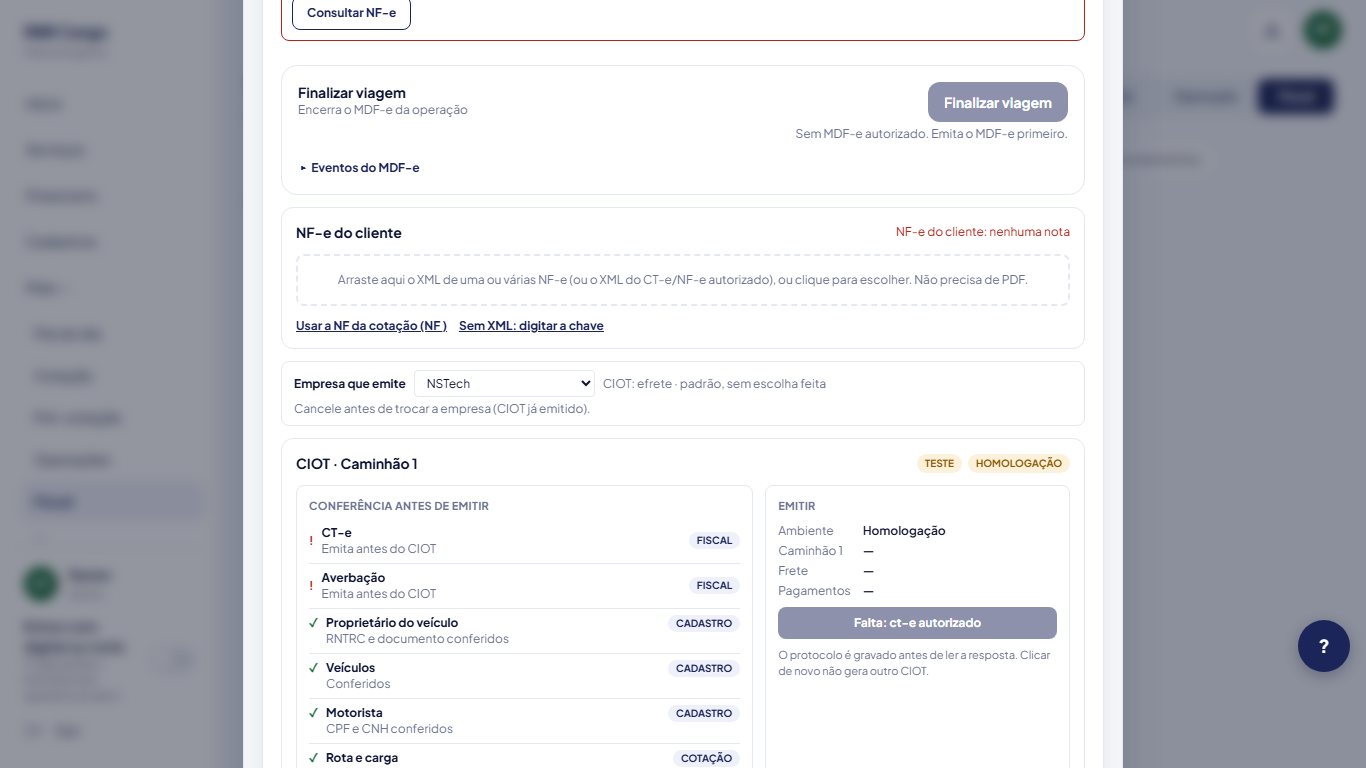
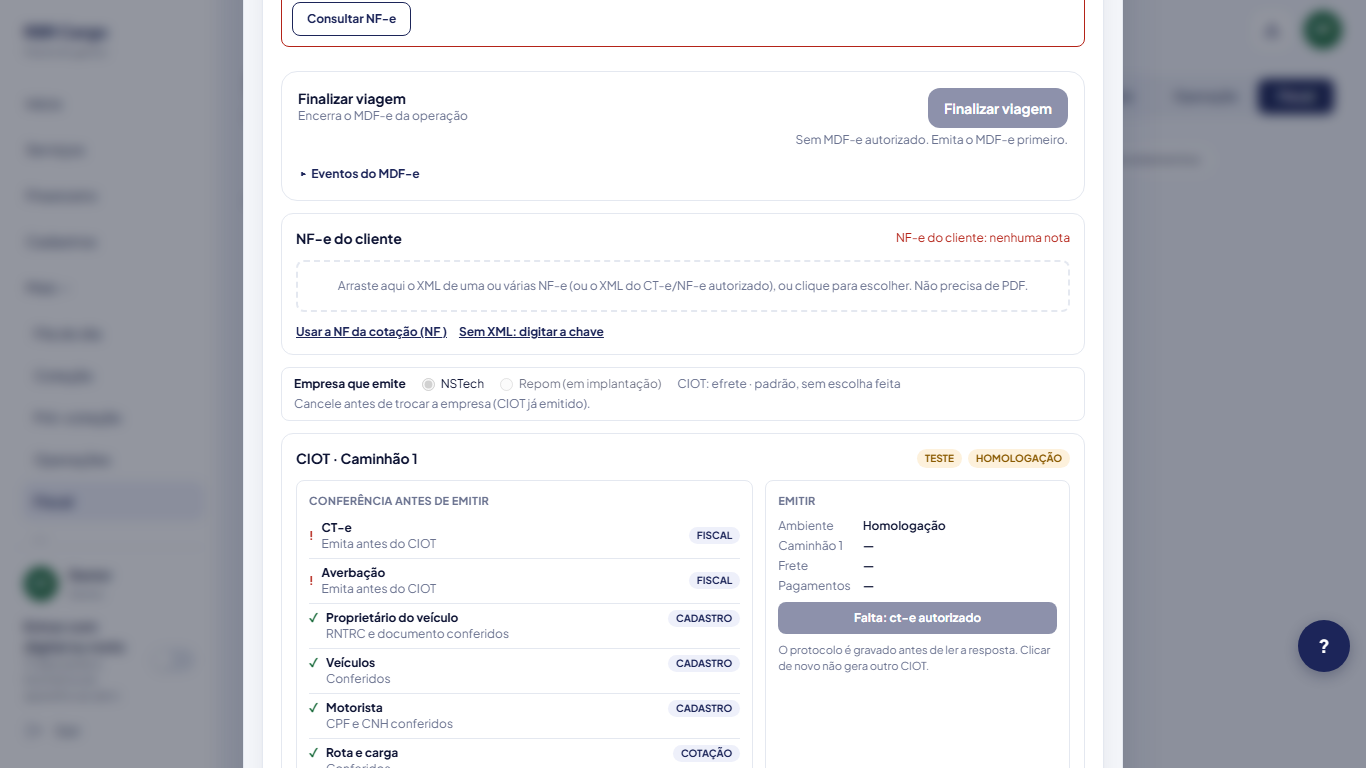
feat(fiscal): seletor de fornecedor reencaixado nas abas, opcoes sempre visiveis (repom em implantacao) e leitura do catalogo tambem para o Fiscal
- slot do seletor no cartao da direita das abas Vale-pedagio e CIOT (nulo na demo e com a flag desligada: tela identica a Fase 1)
- seletor passa a ser grupo de opcoes (radio): nstech marcado e repom desabilitada 'em implantacao' aparecem sem abrir lista
- SQL (nao aplicado): policy de leitura de fornecedores_fiscais para gestor_rbr e fiscal; escrita segue so service_role; rollback inalterado
- prints novos com a flag ligada, dados de exemplo, fora de producao

diff --git a/gestor/src/components/operacao/SeletorFornecedor.tsx b/gestor/src/components/operacao/SeletorFornecedor.tsx
@@ -61,22 +61,25 @@ export default function SeletorFornecedor({ operacaoId, tipo, demo = false, onMu
   const idAtual = escolhido ?? catalogo.find((f) => (tipo === 'ciot' ? f.padrao_ciot : f.padrao_vpo))?.id ?? 'nstech'
   return (
     <div className="rounded-lg border px-3 py-2 text-xs flex flex-col gap-1" style={{ borderColor: 'var(--rbr-border, #e5e7eb)' }}>
-      <div className="flex flex-wrap items-center gap-2">
-        <label htmlFor={`forn-${tipo}`} className="font-bold text-[color:var(--rbr-navy-dark)]">Empresa que emite</label>
-        <select
-          id={`forn-${tipo}`}
-          value={valor}
-          disabled={!podeTrocar || !!travado || salvando}
-          onChange={(e) => void trocar(e.target.value)}
-          className="rounded border px-2 py-1 text-xs bg-white"
-          style={{ borderColor: 'var(--rbr-border, #e5e7eb)' }}
-        >
-          {opcoes.map((o) => (
-            <option key={o.id} value={o.id} disabled={o.desabilitada}>{o.rotulo}</option>
-          ))}
-        </select>
+      {/* Opções sempre à vista (radio): a empresa marcada e as que ainda estão "em implantação" (desabilitadas) aparecem sem abrir lista. */}
+      <fieldset className="flex flex-wrap items-center gap-x-4 gap-y-1 border-0 p-0 m-0 min-w-0" id={`forn-${tipo}`}>
+        <legend className="sr-only">Empresa que emite</legend>
+        <span className="font-bold text-[color:var(--rbr-navy-dark)]" aria-hidden>Empresa que emite</span>
+        {opcoes.map((o) => (
+          <label key={o.id} className={`inline-flex items-center gap-1.5 ${o.desabilitada ? 'opacity-60' : ''}`}>
+            <input
+              type="radio"
+              name={`forn-${tipo}`}
+              value={o.id}
+              checked={valor === o.id}
+              disabled={o.desabilitada || !podeTrocar || !!travado || salvando}
+              onChange={() => void trocar(o.id)}
+            />
+            {o.rotulo}
+          </label>
+        ))}
         <span className="text-[color:var(--rbr-muted)]">{rotuloEtapa(tipo, idAtual, catalogo.find((f) => f.id === idAtual)?.nome)}{escolhido ? '' : ' · padrão, sem escolha feita'}</span>
-      </div>
+      </fieldset>
       {travado && <div className="text-[color:var(--rbr-muted)]">{travado}</div>}
       {!travado && !podeTrocar && <div className="text-[color:var(--rbr-muted)]">Só o Fiscal ou o gestor trocam a empresa.</div>}
       {linha?.fornecedor_escolhido_em && escolhido && <div className="text-[color:var(--rbr-muted)]">Escolhida em {new Date(linha.fornecedor_escolhido_em).toLocaleString('pt-BR')}.</div>}

diff --git a/gestor/src/components/operacao/DemoFiscal.tsx b/gestor/src/components/operacao/DemoFiscal.tsx
@@ -6,6 +6,7 @@ import type { RequisicaoVpo } from '../../lib/vpoPassos'
 import { formatMoney } from '@rbr/shared/format'
 import CartaoVpo from './CartaoVpo'
 import CiotEfrete from './CiotEfrete'
+import SeletorFornecedor from './SeletorFornecedor'
 import { FaixaFixa } from './CartaoCiot'
 
 // Aba Fiscal no MODO DE DEMONSTRAÇÃO (reunião com a NSTech): só a esteira completa, o vale-pedágio e o CIOT, cada um
@@ -310,7 +311,7 @@ export default function DemoFiscal({ operacaoId, docs, resumo, onMudou }: PropsD
         {aba === 'vpo' ? (
           <>
             <Cabecalho titulo="1. Vale-pedágio (NSPEDAGIO)" fluxo="ao NSPEDAGIO" />
-            {estado && <CartaoVpo operacaoId={operacaoId} ehTeste demo onMudou={aoMudar} onSimulacao={setSimulacao} inicial={{ ...inicialVale, ...(formVale ?? {}) }} onDados={setFormVale} tabela={tabelaVpo} />}
+            {estado && <CartaoVpo operacaoId={operacaoId} ehTeste demo onMudou={aoMudar} onSimulacao={setSimulacao} inicial={{ ...inicialVale, ...(formVale ?? {}) }} onDados={setFormVale} tabela={tabelaVpo} seletor={<SeletorFornecedor operacaoId={operacaoId} tipo="vpo" demo />} />}
             {dados.vpo.idvpo && (
               <div className="text-xs rounded-lg px-3 py-2" style={{ background: 'var(--rbr-muted-bg)' }}>
                 Vale <b>{dados.vpo.idvpo}</b> gravado na operação. Depois ele vai para o CIOT e para o MDF-e.
@@ -330,7 +331,7 @@ export default function DemoFiscal({ operacaoId, docs, resumo, onMudou }: PropsD
         ) : (
           <>
             <Cabecalho titulo="2. CIOT (efrete)" fluxo="à efrete" />
-            <CiotEfrete operacaoId={operacaoId} ehTeste docs={docs} demo onMudou={aoMudar} onPrevia={setPrevia} onPedido={(p) => setPisoPedido(p?.piso_minimo ?? null)} tabela={tabelaCiot} />
+            <CiotEfrete operacaoId={operacaoId} ehTeste docs={docs} demo onMudou={aoMudar} onPrevia={setPrevia} onPedido={(p) => setPisoPedido(p?.piso_minimo ?? null)} tabela={tabelaCiot} seletor={<SeletorFornecedor operacaoId={operacaoId} tipo="ciot" demo />} />
             {estado?.ciot.ciot && estado.ciot.status !== 'cancelado' && (
               <div className="text-xs rounded-lg px-3 py-2" style={{ background: 'var(--rbr-muted-bg)' }}>
                 Voltou: CIOT <b>{estado.ciot.ciot}{estado.ciot.verificador ? `/${estado.ciot.verificador}` : ''}</b>

diff --git a/gestor/src/components/operacao/CartaoVpo.tsx b/gestor/src/components/operacao/CartaoVpo.tsx
@@ -43,13 +43,13 @@ const emDias = (n: number) => new Date(Date.now() + n * 86_400_000)
 
 // demo = modo de demonstração: dados da rota sempre à vista, placa de teste (GYI1732) já preenchida e aviso de espera de 1 a 3 minutos.
 // inicial: valores de partida do formulário na demonstração (vêm da operação); onDados devolve o que o formulário tem agora, para a tabela "Dado enviado" ler a MESMA fonte.
-export type PropsCartaoVpo = { operacaoId: string; ehTeste: boolean; placa?: string | null; onMudou?: () => void; demo?: boolean; onSimulacao?: (resumo: string | null) => void; onPlaca?: (placa: string) => void; inicial?: Partial<FormularioVale>; onDados?: (f: FormularioVale) => void; tabela?: ReactNode }
+export type PropsCartaoVpo = { operacaoId: string; ehTeste: boolean; placa?: string | null; onMudou?: () => void; demo?: boolean; onSimulacao?: (resumo: string | null) => void; onPlaca?: (placa: string) => void; inicial?: Partial<FormularioVale>; onDados?: (f: FormularioVale) => void; tabela?: ReactNode; seletor?: ReactNode }
 export default function CartaoVpo(props: PropsCartaoVpo) {
   if (!NSPEDAGIO_HABILITADO) return null
   return <CartaoVpoAtivo key={props.operacaoId} {...props} />
 }
 
-function CartaoVpoAtivo({ operacaoId, ehTeste, placa, onMudou, demo, onSimulacao, onPlaca, inicial, onDados, tabela }: PropsCartaoVpo) {
+function CartaoVpoAtivo({ operacaoId, ehTeste, placa, onMudou, demo, onSimulacao, onPlaca, inicial, onDados, tabela, seletor }: PropsCartaoVpo) {
   const [reqs, setReqs] = useState<RequisicaoVpo[] | null>(null)
   const [ocupado, setOcupado] = useState<string | null>(null)
   const [erro, setErro] = useState<string | null>(null)
@@ -414,6 +414,7 @@ function CartaoVpoAtivo({ operacaoId, ehTeste, placa, onMudou, demo, onSimulacao
           </section>
 
           <section className="rounded-xl border p-3.5 flex flex-col gap-3 bg-white min-w-0" style={linha}>
+            {seletor}
             <div className="flex items-center justify-between gap-2 flex-wrap">
               <h4 className={titulo}>Ações</h4>
               <span className="text-[10px] font-bold uppercase px-2 py-0.5 rounded-full bg-slate-100" data-estado={estado}>{seloVale(estado, resumoSim != null || (reqs ?? []).some((r) => r.acao === 'simular' && deuCerto(r)))}</span>

diff --git a/gestor/src/components/operacao/CiotEfrete.tsx b/gestor/src/components/operacao/CiotEfrete.tsx
@@ -40,14 +40,14 @@ const LINK_CORRIGIR: Partial<Record<Corrigir, string>> = {
 }
 
 // Com a flag desligada não renderiza nada e não chama a efrete (o CIOT manual é o caminho principal).
-export type PropsCiotEfrete = { operacaoId: string; ehTeste: boolean; docs: DocLeve[]; placa?: string | null; onMudou?: () => void; demo?: boolean; onPrevia?: (p: Previa) => void; onPedido?: (p: PedidoCiot | null) => void; tabela?: ReactNode }
+export type PropsCiotEfrete = { operacaoId: string; ehTeste: boolean; docs: DocLeve[]; placa?: string | null; onMudou?: () => void; demo?: boolean; onPrevia?: (p: Previa) => void; onPedido?: (p: PedidoCiot | null) => void; tabela?: ReactNode; seletor?: ReactNode }
 export default function CiotEfrete(props: PropsCiotEfrete) {
   if (!CIOT_EFRETE_HABILITADO) return null
   // key: ao trocar de operação com o painel aberto, o cartão recomeça do zero (nunca mostra o CIOT de uma operação na outra).
   return <CiotEfreteAtivo key={props.operacaoId} {...props} />
 }
 
-function CiotEfreteAtivo({ operacaoId, ehTeste, docs, placa, onMudou, demo, onPrevia, onPedido, tabela }: PropsCiotEfrete) {
+function CiotEfreteAtivo({ operacaoId, ehTeste, docs, placa, onMudou, demo, onPrevia, onPedido, tabela, seletor }: PropsCiotEfrete) {
   const [pedido, setPedido] = useState<PedidoCiot | null | undefined>(undefined)
   const [pagamentos, setPagamentos] = useState<PagamentoCiot[]>([])
   const [ambiente, setAmbiente] = useState<string | null>(null)
@@ -138,6 +138,7 @@ function CiotEfreteAtivo({ operacaoId, ehTeste, docs, placa, onMudou, demo, onPr
         ehTeste={ehTeste}
         demo={demo}
         tabela={tabela}
+        seletor={seletor}
         pedido={pedido}
         pagamentos={pagamentos}
         previa={previa}

diff --git a/supabase/functions/_shared/fornecedoresMigracao.test.ts b/supabase/functions/_shared/fornecedoresMigracao.test.ts
@@ -14,10 +14,10 @@ test('migração só aditiva: nada apagado nem alterado de dados existentes', ()
   assert.doesNotMatch(mig, /alter\s+table[^;]*\b(drop|alter\s+column|rename)\b/i)
   assert.match(mig, /on conflict \(id\) do nothing/)
 })
-test('RLS ligado e forçado; leitura só gestor; sem escrita para usuário', () => {
+test('RLS ligado e forçado; leitura gestor e Fiscal; sem escrita para usuário', () => {
   assert.match(mig, /enable row level security/)
   assert.match(mig, /force row level security/)
-  assert.match(mig, /for select to authenticated\s+using \(public\.current_papel\(\)::text = 'gestor_rbr'\)/)
+  assert.match(mig, /for select to authenticated\s+using \(public\.current_papel\(\)::text in \('gestor_rbr', 'fiscal'\)\)/)
   assert.doesNotMatch(mig, /create policy[^;]*for (insert|update|delete|all)/i)
   assert.match(mig, /revoke insert, update, delete on public\.fornecedores_fiscais from authenticated/)
 })

diff --git a/gestor/src/components/operacao/CartaoCiot.tsx b/gestor/src/components/operacao/CartaoCiot.tsx
@@ -111,6 +111,8 @@ export type PropsCartao = {
   onEmitirNovamente: () => void
   // Aba da demonstração: a tabela do que enviamos vira a coluna da esquerda e o cartão passa a ser a coluna da direita (mesma altura).
   tabela?: ReactNode
+  // Seletor "Empresa que emite" no topo do cartão da direita da aba (some sozinho com a flag desligada e na demonstração).
+  seletor?: ReactNode
 }
 
 export default function CartaoCiot(p: PropsCartao) {
@@ -178,6 +180,7 @@ export default function CartaoCiot(p: PropsCartao) {
           </div>
         </div>
       )}
+      {aba && p.seletor}
       {aba && <h4 className={tituloSecao}>Ações</h4>}
 
       {/* Antes de emitir (ou depois de erro): conferência e botão */}
